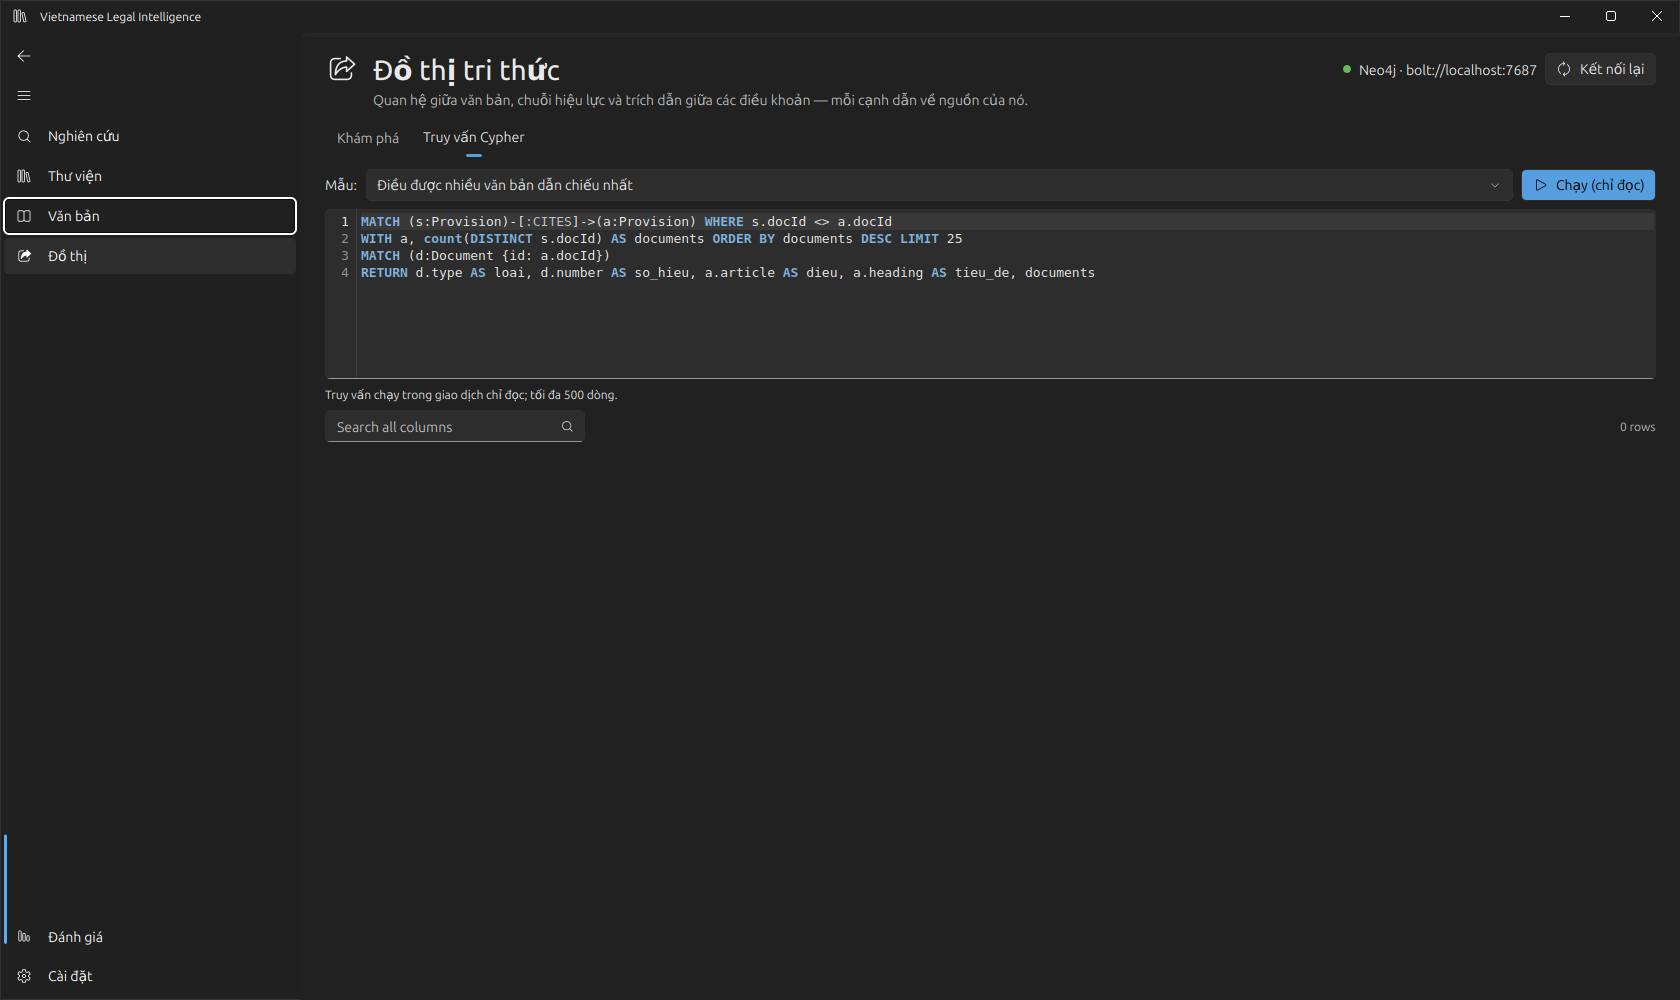
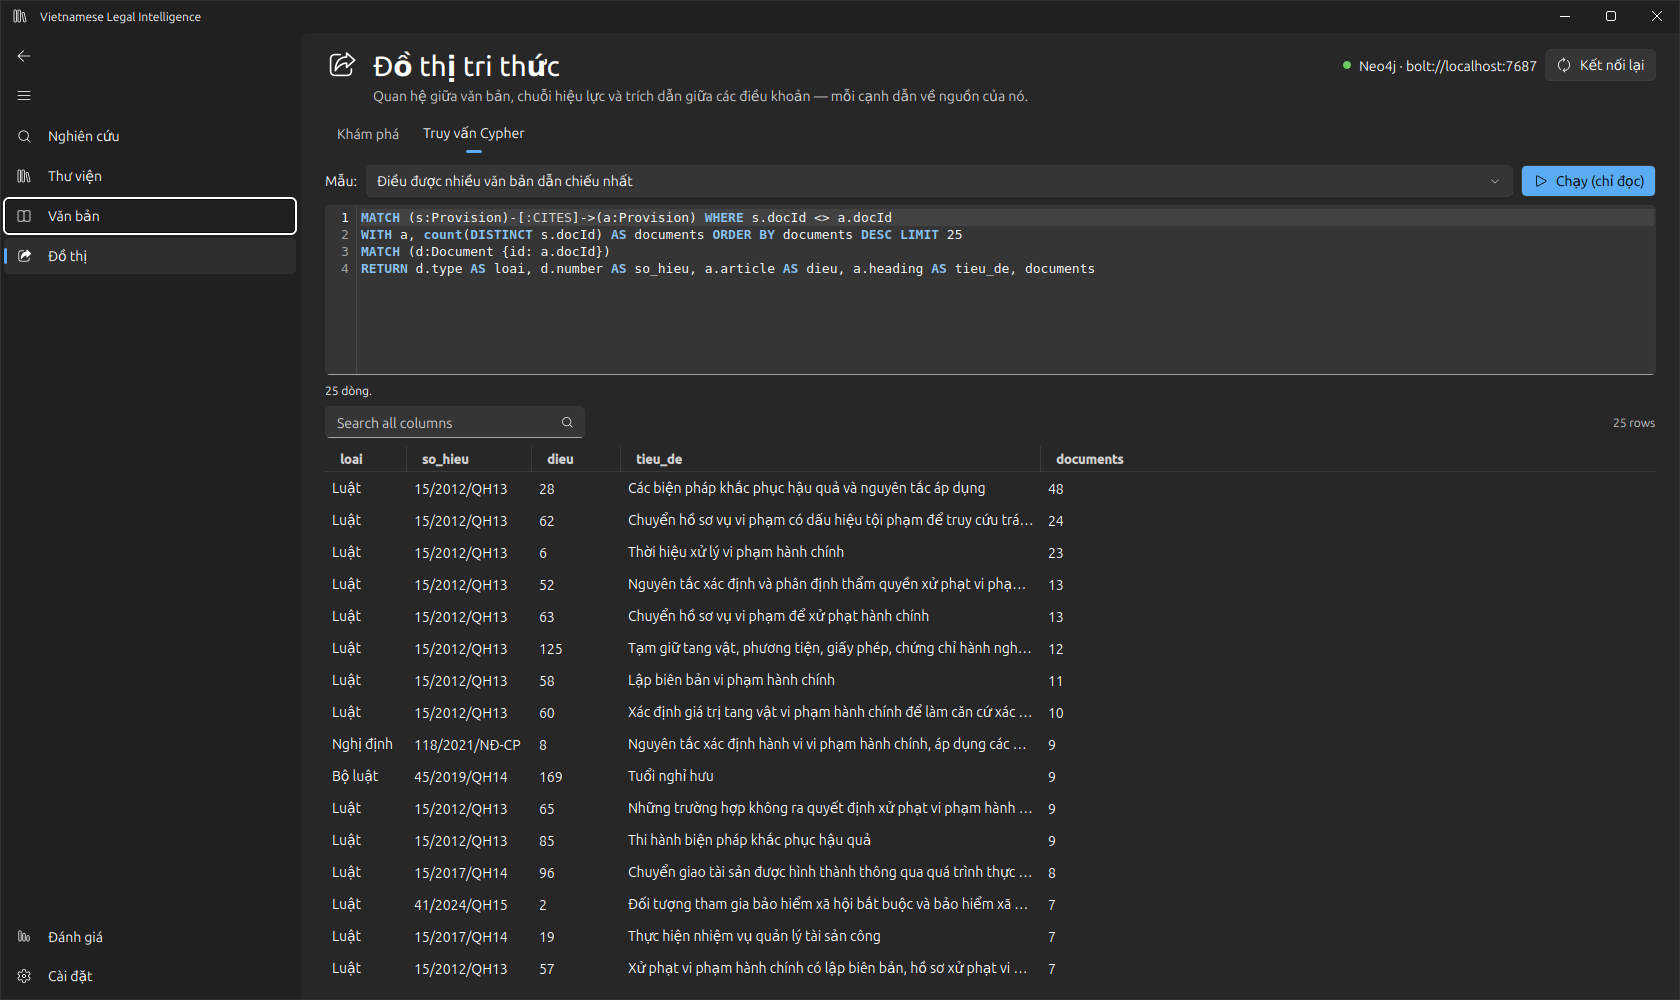
docs: clarify architecture roles, local services and the answer-support limitation

diff --git a/docs/evaluation.md b/docs/evaluation.md
@@ -1,16 +1,36 @@
 # Evaluation
 
 Every number below was measured on the national-core library (3,765 documents with text, 100,071 articles,
-170,204 passages) on a laptop CPU (Intel i5-1235U, no GPU, WSL2), with the commands shown. Reports are shown on the
-application's Evaluation page.
+170,204 passages) on a laptop CPU (Intel i5-1235U, no GPU, WSL2). The reports are also shown on the application's Evaluation page.
+
+## Summary
+
+Each layer is measured separately, because each can fail on its own:
+
+| Layer | What is measured | Result |
+|---|---|---|
+| Document structure | Articles of an independent segmentation found by the parser | 99.3 % of 24,600 |
+| Citation extraction | Extracted citations resolved to a document | 96.1 % of 120,304 |
+| Citation extraction | Linked document pairs the portal also relates (lower bound on precision) | 73.8 % |
+| Retrieval | Hybrid Recall@10 / MRR@10, Zalo test set | 89.2 % / 0.679 (751 questions) |
+| Out-of-scope abstention | Out-of-scope questions declined, end to end | 29 / 30 |
+| Citation correctness | Answer citations that point to evidence the model was given | 100 % |
+| **Sentence-level lexical support** | **Answer sentences whose content is found in their cited evidence** | **39.2 %** |
+| Numerical support | Answers stating a number not found in the cited evidence | 5 / 30 |
+
+The answer layer is the weak one. With the local 3B model, fewer than two in five answer sentences pass the strict
+lexical support check, and one answer in six states a number that its sources do not contain. Citations are always
+valid (the model only cites what it was given), but a valid citation does not make the sentence grounded. The
+interface marks every unsupported sentence and every unsupported number; the system does not claim fully grounded
+answers.
 
 ## Benchmarks used
 
-* **Zalo AI 2021 Legal Text Retrieval**, test split, as released by GreenNode on Hugging Face (MIT). Each question
-  has its relevant articles, identified by document number and article number, so they can be located in this
-  library independently of how either side segmented the text. 818 questions; the questions whose relevant document
-  is in the library are used. The documents referenced by these questions were added to the library selection, so
-  the benchmark measures ranking among ~3,800 documents, not coverage.
+* **Zalo AI 2021 Legal Text Retrieval**, test split, as released by GreenNode on Hugging Face (MIT). Each question has
+  its relevant articles, identified by document number and article number, so they can be located in this library
+  independently of how either side segmented the text. 818 questions, 788 of them with relevance judgements; those whose
+  relevant article is in the library are used. The documents referenced by these questions were added to the library
+  selection, so the benchmark measures ranking among ~3,800 documents, not coverage.
 * **Out-of-scope questions**: 30 questions written for this evaluation (everyday topics, foreign law, future facts,
   prices) that the library cannot answer.
 * **The portal's own relationships**, for citation extraction.
@@ -20,7 +40,6 @@ application's Evaluation page.
 The dense model was chosen among models not trained on the Zalo data.
 
 ## Structure parsing
-
 
 | Measure | Result |
 |---|---|
@@ -40,7 +59,6 @@ inside amending documents, which the reference counts as articles and the parser
 text.
 
 ## Citations and relations
-
 
 | Measure | Result |
 |---|---|
@@ -65,12 +83,12 @@ detailing them.
 
 ## Retrieval
 
-
 Article-level metrics: a question counts as found at k when one of its relevant articles is among the first k
 distinct articles returned (passages of the same article count once).
 
 751 questions; 37 others are left out because none of their relevant articles is in the library (the document is
-missing from the catalogue or was published on the portal without text, or the article was not found). Measured 2026-10-08 14:39.
+missing from the catalogue or was published on the portal without text, or the article was not found). Measured
+2026-10-08.
 
 | Mode | Recall@1 | Recall@5 | Recall@10 | MRR@10 | nDCG@10 |
 |---|---|---|---|---|---|
@@ -83,9 +101,9 @@ missing from the catalogue or was published on the portal without text, or the a
 complementary: keyword search is stronger on current law (MRR 0.696 against 0.619), dense search on the older texts
 (0.643 against 0.577), and fusion keeps most of both.
 
-**Validity weighting** ranks law currently in force first. The benchmark was built in 2021, and
-229 of its 751 answers are now in documents that have
-expired or that the portal's relationships show as replaced. Scored separately:
+**Validity weighting** ranks law currently in force first. The benchmark was built in 2021, and 229 of its 751
+answers are now in documents that have expired or that the portal's relationships show as replaced. Scored
+separately:
 
 | Mode | Answer in force: Recall@10 | MRR@10 | Answer no longer in force: Recall@10 | MRR@10 |
 |---|---|---|---|---|
@@ -94,24 +112,23 @@ expired or that the portal's relationships show as replaced. Scored separately:
 | Hybrid (reciprocal rank fusion) | 90.6 % | 0.696 | 86.0 % | 0.641 |
 | Hybrid + validity weighting (default) | 91.6 % | 0.708 | 52.8 % | 0.123 |
 
-On the 522 questions answered by law in force, validity weighting improves on plain
-hybrid ranking; on the others it does what it is meant to do, ranking current provisions above the historical answer.
-It is the default for research on current law and can be switched off in the interface (“Ưu tiên văn bản đang có hiệu
-lực”) for historical research, which gives the plain hybrid ranking.
+On the 522 questions answered by law in force, validity weighting improves on plain hybrid ranking; on the others it
+does what it is meant to do, ranking current provisions above the historical answer. It is the default for research on
+current law and can be switched off in the interface (“Ưu tiên văn bản đang có hiệu lực”) for historical research, which
+gives the plain hybrid ranking.
 
 Latency of the whole retrieval step (keyword + dense + fusion + validity), uncached, on 100 questions:
-median 262 ms, 90th percentile 445 ms (the encoder and the 170,204 vectors are loaded once, when the
-worker starts).
+median 262 ms, 90th percentile 445 ms (the encoder and the 170,204 vectors are loaded once, when the worker
+starts).
 
 ## Grounded answers and abstention
-
 
 **Abstention gate** (no model). multilingual-E5 similarities are compressed: on a random sample of 100 benchmark
 questions the closest passage scored at least 0.853 (median 0.907), on the 30 out-of-scope questions 0.805–0.897
 (median 0.857). The threshold was chosen on another random sample of 150 benchmark questions: at 0.87, 4 of the 150
 (2.7 %) and 23 of the 30 out-of-scope questions (77 %) are declined before any model call. Checked on the first
-sample of 100: 2 of 100 benchmark questions (2 %) are declined. The out-of-scope set is small and was used to choose the threshold, so this
-figure is optimistic; the end-to-end figure below adds the model's own refusals.
+sample of 100: 2 of 100 benchmark questions (2 %) are declined. The out-of-scope set is small and was used to
+choose the threshold, so this figure is optimistic; the end-to-end figure below adds the model's own refusals.
 
 **End to end** with qwen2.5:3b (Ollama, CPU), on a separate random sample of 30 benchmark questions and the 30
 out-of-scope questions, measured 2026-10-08:
@@ -121,7 +138,7 @@ out-of-scope questions, measured 2026-10-08:
 | Out-of-scope questions declined (gate or the model's “KHÔNG ĐỦ CĂN CỨ”) | **29 / 30 (96.7 %)** |
 | Benchmark questions wrongly declined | 0 / 30 |
 | Citations that point to evidence the model was given | **100 %** |
-| Answer sentences supported by their cited evidence (lexical check) | 39.2 % |
+| Answer sentences supported by their cited evidence (strict lexical check) | **39.2 %** |
 | Answers with a number not found in the cited evidence | 5 / 30 (16.7 %) |
 | Answers in which every substantive sentence is supported | 12 / 30 (40 %) |
 | Benchmark article among the evidence given to the model | 66.7 % |

diff --git a/docs/local-services.md b/docs/local-services.md
@@ -1,0 +1,56 @@
+# Local services
+
+The application is a desktop program that works offline once its data is built. Besides its Python packages it
+uses up to three local resources. Each one is detected at run time, and when one is missing the features that need
+it are switched off instead of the application stopping.
+
+| Resource | Required? | Used for | When it is missing |
+|---|---|---|---|
+| The library, built from the public vbpl dataset | yes, for research | documents, structure, citations, keyword search | the library is empty; HTML, DOCX and PDF files can still be imported |
+| Embedding model (multilingual-E5 small, int8 ONNX, about 118 MB) and the passage vectors | recommended | the dense half of hybrid retrieval and the abstention gate | keyword retrieval only; the gate falls back to requiring a shared two-syllable phrase |
+| Neo4j | optional | the Graph page on Neo4j and the read-only Cypher console | the Graph page runs the same queries on SQLite; the Cypher console says it needs Neo4j; research is unaffected |
+| Language model server (Ollama, or any OpenAI-compatible endpoint) | optional | writing the answer from the evidence | research shows the evidence only, with the reason no answer was written |
+
+## Data folder
+
+Everything the application writes (the SQLite library, settings, the embedding model, vectors and evaluation reports)
+lives in one per-user application-data folder, which an environment variable can redirect. Nothing is written next to
+the program.
+
+## Embedding model
+
+The Settings page downloads two files of `intfloat/multilingual-e5-small` from Hugging Face (the int8 ONNX model and
+its tokenizer) and then embeds every passage. The job is resumable and runs in the worker process. Vectors are stored
+in shards keyed by the text they encode, so re-importing a document only re-embeds passages whose text changed. For
+the national-core library (about 170,000 passages) it took 4 h 15 min on a laptop CPU (Intel i5-1235U).
+
+## Neo4j
+
+Neo4j holds a projection of the SQLite library, rebuilt by a sync job in about 100 seconds; it can be dropped and
+rebuilt at any time and is never the source of a fact.
+
+* Developed against Neo4j 2026.09 Community (which needs Java 21). Any installation that exposes Bolt works: the
+  tarball, Neo4j Desktop or the official container image. The sync replaces the database's content, so use a
+  database dedicated to the application.
+* The address (default `bolt://localhost:7687`), user, password and database are entered in Settings, or taken from
+  `NEO4J_URI`, `NEO4J_USER`, `NEO4J_PASSWORD` and `NEO4J_DATABASE`. The password is kept only in the per-user
+  settings file.
+* Detection: the application connects on a background thread at start-up and again whenever the settings are saved.
+  The Graph page's status light says whether the driver is missing, the server is unreachable, the credentials were
+  rejected or Neo4j is switched off, and the page falls back to the SQLite implementation of the same views. A
+  *Reconnect* button tries again.
+* Research never needs Neo4j: its graph expansion always runs on SQLite, which returned identical results and was
+  faster on this data (2.8 ms against 11.6 ms per expansion).
+
+## Language model
+
+* The default is Ollama at `http://localhost:11434` with `qwen2.5:3b` (`ollama pull qwen2.5:3b`). With a local model,
+  questions and documents never leave the machine.
+* Any OpenAI-compatible endpoint can be used instead (llama.cpp server, vLLM, LM Studio or a hosted API): a base URL
+  ending in `/v1`, or an API key, selects that protocol. With a hosted API the question and the evidence are sent to
+  it. `LEGAL_LLM_BASE_URL`, `LEGAL_LLM_MODEL` and `LEGAL_LLM_API_KEY` override the saved settings.
+* Detection: Settings has a test button that lists the models the endpoint offers. During research the endpoint is
+  called only when an answer is needed; if it cannot be reached, the result keeps its evidence, says that no answer
+  was written and shows the error. An evidence-only mode skips the model on purpose.
+* When Ollama runs on another machine (for example on Windows while the application runs in WSL), it must listen on
+  an address the application can reach, and that address goes in Settings.

diff --git a/README.md b/README.md
@@ -106,7 +106,9 @@ flowchart TB
   only re-embeds what changed.
 
 More: [docs/architecture.md](docs/architecture.md) · [docs/decisions.md](docs/decisions.md) ·
-[docs/evaluation.md](docs/evaluation.md) · [docs/example.md](docs/example.md) (a real research run)
+[docs/evaluation.md](docs/evaluation.md) · [docs/local-services.md](docs/local-services.md) (Neo4j, Ollama, the
+embedding model: required or optional, detection, configuration) · [docs/example.md](docs/example.md) (a real
+research run)
 
 ## Measured results
 
@@ -140,16 +142,19 @@ related on the official portal (a lower bound on precision).
 
 **Grounded answers** with a local 3B model (qwen2.5:3b, CPU) on 30 benchmark and 30 out-of-scope questions:
 29 / 30 out-of-scope questions declined and none of the benchmark questions; every citation points to evidence the
-model was given; 39 % of sentences pass the strict lexical support check and 5 / 30 answers contain a number not found
-in the cited text. Those sentences are flagged in the interface, with the missing number named. A small local model
+model was given. **Only 39 % of answer sentences pass the strict sentence-level lexical support check**, and 5 / 30
+answers contain a number not found in the cited text; valid citations do not make an answer grounded. Those sentences are flagged in the interface, with the missing number named. A small local model
 paraphrases and sometimes drifts; the verification layer is what makes that visible.
 
 ## Engineering decisions (and where they differ from the brief)
 
-* **No agent loop.** With a small local model, a fixed, auditable workflow is more reliable than model-chosen tools,
-  and the same question gives the same evidence. The graph, not the model, follows amendments and guidance.
-* **Neo4j for exploration, SQLite for retrieval-time graph lookups**: identical results, 2.8 ms against 11.6 ms per
-  expansion (medians), and no server needed to research.
+* **No agent loop, by design.** The local 3B model chose tools unreliably, and legal research needs the same question
+  to produce the same evidence. The workflow is fixed and auditable; the graph, not the model, follows amendments and
+  guidance, and the model only writes the final text from numbered evidence.
+* **SQLite is the system of record; Neo4j is a projection.** Every fact lives in SQLite and Neo4j is rebuilt from it.
+  Neo4j powers the graph screens (document relations, validity lineage, provision citations) and the read-only
+  Cypher console. Research-time graph lookups run on SQLite: on 620 random articles both backends returned identical
+  results, at 2.8 ms against 11.6 ms per expansion (medians), and research needs no server.
 * **No reranker yet**: the time budget went to validity weighting and graph expansion; reranking is the next
   experiment on the same benchmark.
 * **Exact vector search**: ~170k × 384 vectors fit in memory and search in milliseconds; no vector database.
